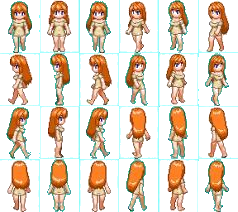
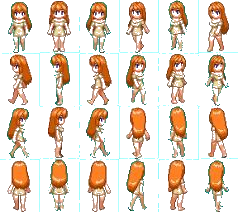
update

diff --git a/jogo.py b/jogo.py
@@ -4,7 +4,6 @@ import sys
 
 import pygame
 
-# --- Inicialização ---
 pygame.init()
 
 # --- Configurações da Janela ---
@@ -14,41 +13,31 @@ pygame.display.set_caption("A Jornada - Pixel Art Edition")
 RELOGIO = pygame.time.Clock()
 FPS = 60
 
-# --- Carregamento da Folha de Sprites ---
-FOLHA = pygame.image.load("personagem.png").convert_alpha()
+# --- Carregamento dos Sprites (Grade 3x3) ---
+FOLHA = pygame.image.load("sprites0023.png").convert_alpha()
 LARG_TOTAL, ALT_TOTAL = FOLHA.get_size()
 
-COLUNAS = 6
-LINHAS = 4
+COLUNAS = 3
+LINHAS = 3
 
-# Cálculo preciso de tamanho por frame
-SPRITE_W = LARG_TOTAL / COLUNAS
-SPRITE_H = ALT_TOTAL / LINHAS
+SPRITE_W = LARG_TOTAL // COLUNAS
+SPRITE_H = ALT_TOTAL // LINHAS
 
-SPRITE_ESCALA = 2.2  # Escala de exibição
+SPRITE_ESCALA = 2.5
 
-def pegar_frame_grade(coluna, linha):
-    """
-    Recorta um frame aplicando uma margem de segurança de 1px 
-    para eliminar resíduos de linhas nas bordas superiores/inferiores.
-    """
-    x = int(coluna * SPRITE_W)
-    y = int(linha * SPRITE_H)
-    
-    w = int(SPRITE_W)
-    h = int(SPRITE_H)
+def pegar_frame(coluna, linha):
+    """Recorta um frame específico da grade 3x3."""
+    x = coluna * SPRITE_W
+    y = linha * SPRITE_H
+    sub = FOLHA.subsurface((x, y, SPRITE_W, SPRITE_H))
+    return pygame.transform.scale(
+        sub, (int(SPRITE_W * SPRITE_ESCALA), int(SPRITE_H * SPRITE_ESCALA))
+    )
 
-    # Margem interna para evitar capturar linhas do frame vizinho
-    MARGEM_MIND = 1
-    sub = FOLHA.subsurface((x + MARGEM_MIND, y + MARGEM_MIND, w - (MARGEM_MIND * 2), h - (MARGEM_MIND * 2)))
-    
-    novo_w = int((w - MARGEM_MIND * 2) * SPRITE_ESCALA)
-    novo_h = int((h - MARGEM_MIND * 2) * SPRITE_ESCALA)
-    return pygame.transform.scale(sub, (novo_w, novo_h))
-
-# Linha 1: Animação de caminhada de lado na imagem original
-FRAMES_ANDAR = [pegar_frame_grade(col, 1) for col in range(COLUNAS)]
-FRAME_IDLE = FRAMES_ANDAR[0]
+# Recorta os frames principais
+FRAME_FRENTE = pegar_frame(1, 2)   # Frente (Centro, Baixo)
+FRAME_COSTAS = pegar_frame(1, 0)   # Costas (Centro, Cima)
+FRAME_PERFIL = pegar_frame(0, 1)   # Perfil/Lado (Esquerda, Meio)
 
 # --- Cores do Cenário ---
 COR_CEU_TOPO = (12, 10, 30)
@@ -65,7 +54,7 @@ COR_DUNA_PERTO = (150, 92, 120)
 COR_CHAO = (90, 58, 85)
 COR_PARTICULA = (210, 160, 255)
 
-# --- Física do Mundo ---
+# --- Física do Jogo ---
 GRAVIDADE = 420.0
 FORCA_FLUTUACAO = -310.0
 VELOCIDADE_X = 220.0
@@ -75,7 +64,7 @@ CHAO_Y = ALTURA - 70
 # --- Estado do Jogador ---
 x, y = LARGURA // 2, CHAO_Y
 vel_y = 0.0
-direcao = -1  # -1 = Esquerda (padrão do sprite original), 1 = Direita
+direcao = 1  # 1 = Direita, -1 = Esquerda
 no_ar = False
 tempo_animacao = 0.0
 
@@ -171,15 +160,13 @@ while True:
 
     teclas = pygame.key.get_pressed()
     nova_direcao = 0
-    if teclas[pygame.K_LEFT]: 
-        nova_direcao = -1
-    if teclas[pygame.K_RIGHT]: 
-        nova_direcao = 1
-    
+    if teclas[pygame.K_LEFT]: nova_direcao = -1
+    if teclas[pygame.K_RIGHT]: nova_direcao = 1
+
     if nova_direcao != 0:
         direcao = nova_direcao
 
-    # Flutuação e Controles
+    # Controles Verticais / Flutuação
     if teclas[pygame.K_SPACE] or teclas[pygame.K_UP]:
         vel_y += FORCA_FLUTUACAO * dt * 7.5
         criar_particula(x, y - 5)
@@ -199,7 +186,7 @@ while True:
     x += nova_direcao * VELOCIDADE_X * dt
     x = max(30, min(LARGURA - 30, x))
 
-    # Paralaxe do Cenário
+    # Paralaxe
     off_fundo += nova_direcao * 18 * dt
     off_medio += nova_direcao * 55 * dt
     off_perto += nova_direcao * 120 * dt
@@ -216,20 +203,14 @@ while True:
     atualizar_desenhar_particulas(dt)
     desenhar_sombra(x, y)
 
-    # Animação
-    if no_ar:
-        sprite_atual = FRAMES_ANDAR[3]
-    elif nova_direcao != 0:
-        idx = int(tempo_animacao * 10) % len(FRAMES_ANDAR)
-        sprite_atual = FRAMES_ANDAR[idx]
+    # Seleção de Sprite baseada no movimento
+    if nova_direcao != 0:
+        sprite_atual = FRAME_PERFIL
+        # Espelha o sprite quando anda para a direita (pois o frame original olha para a esquerda)
+        if direcao == 1:
+            sprite_atual = pygame.transform.flip(sprite_atual, True, False)
     else:
-        sprite_atual = FRAME_IDLE
-
-    # CORREÇÃO DA DIREÇÃO:
-    # A imagem original caminha para a ESQUERDA (direcao = -1).
-    # Portanto, só espelhamos a imagem quando a direção for DIREITA (direcao = 1).
-    if direcao == 1:
-        sprite_atual = pygame.transform.flip(sprite_atual, True, False)
+        sprite_atual = FRAME_FRENTE
 
     rect = sprite_atual.get_rect()
     rect.midbottom = (int(x), int(y))
